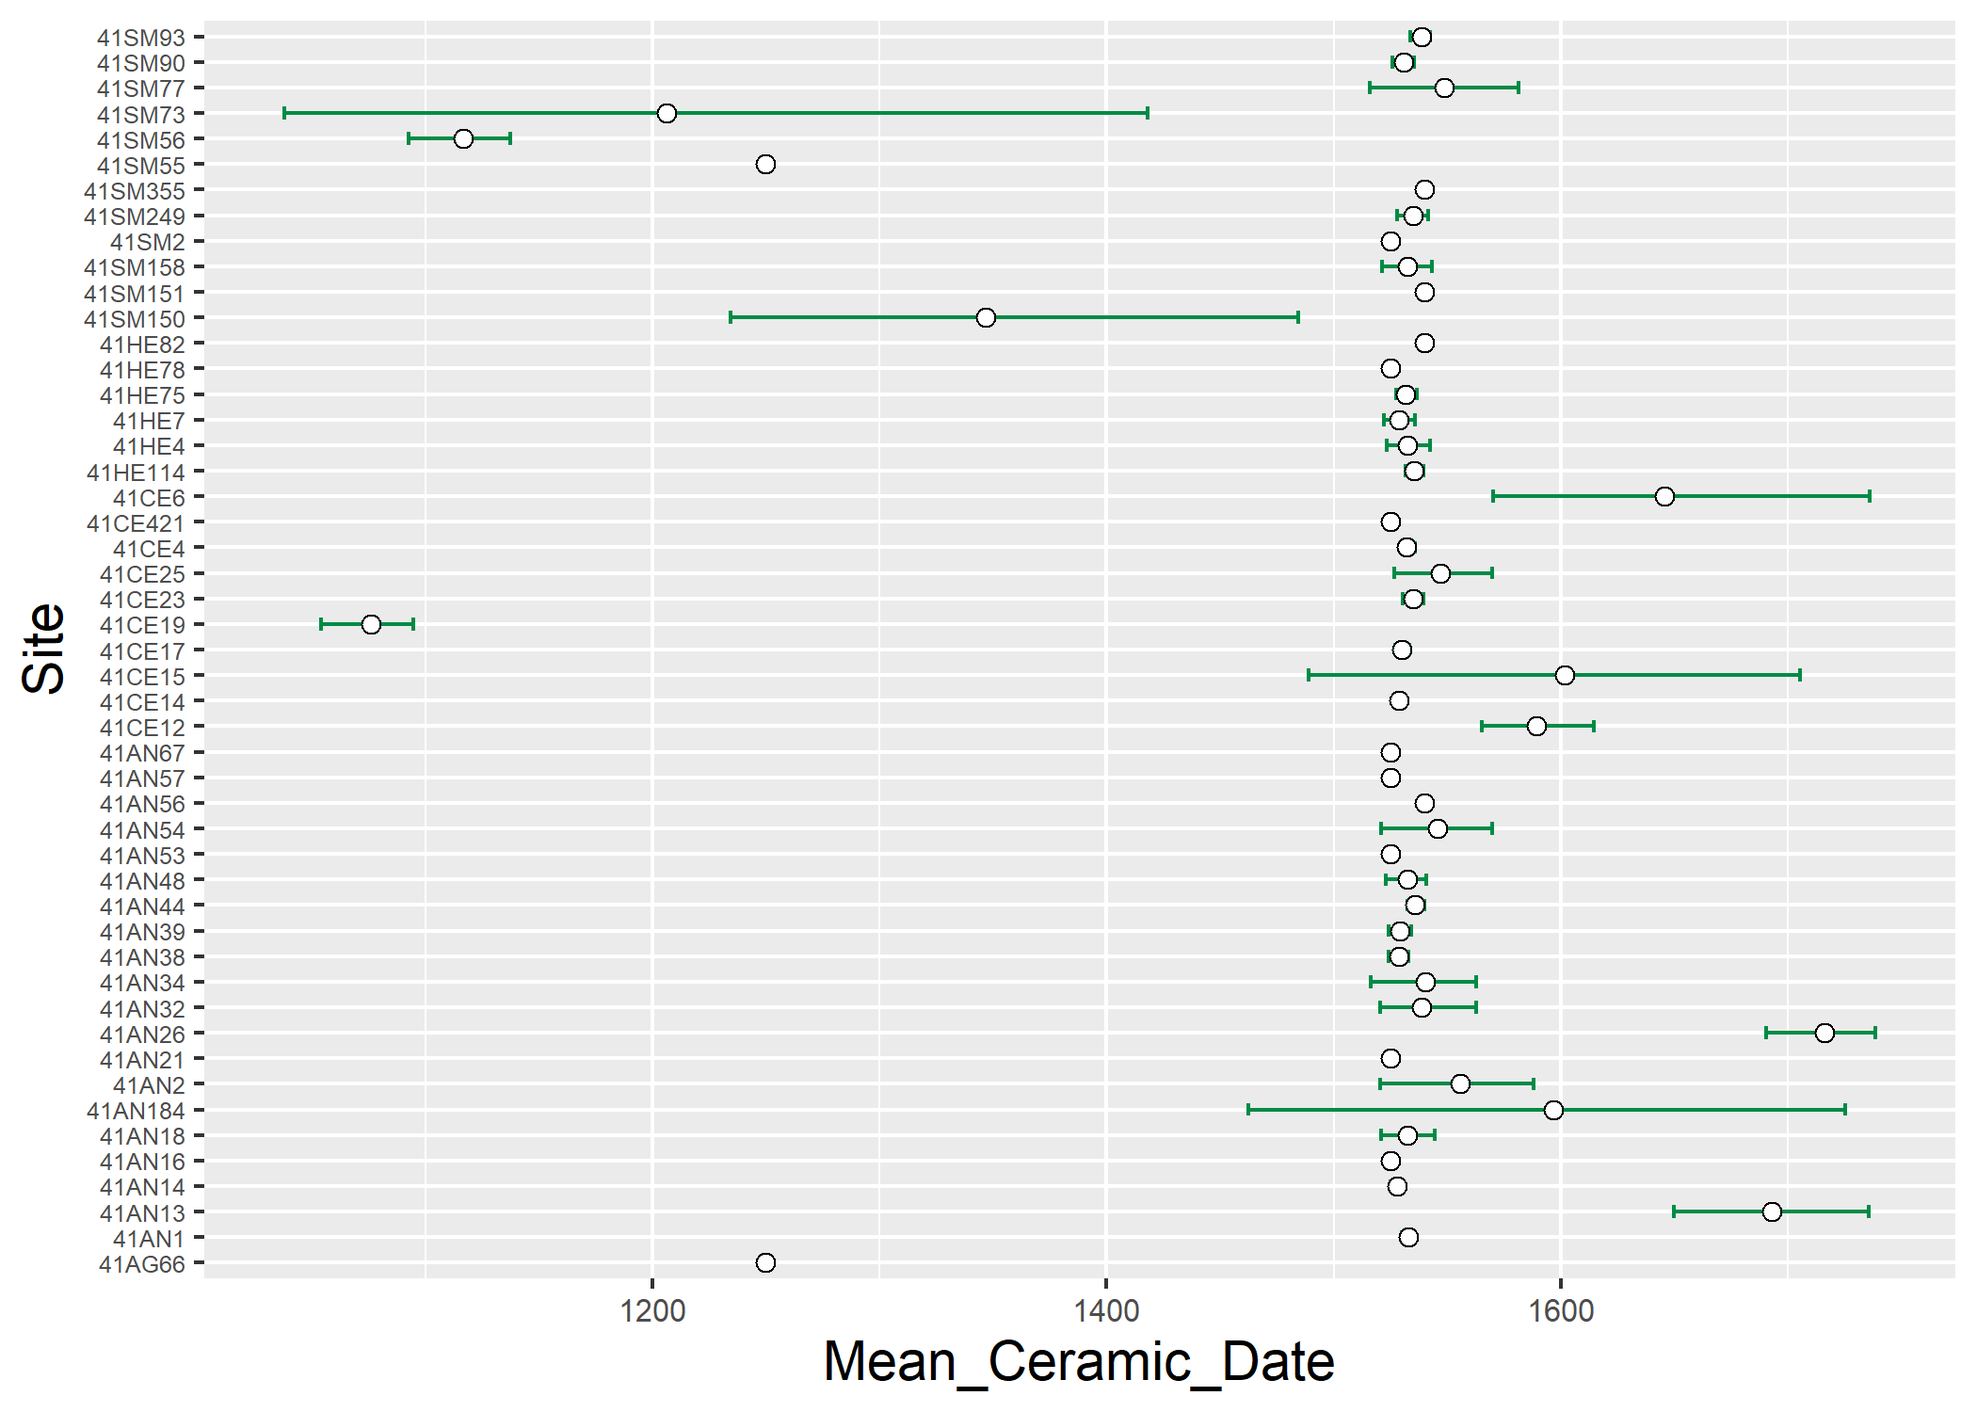
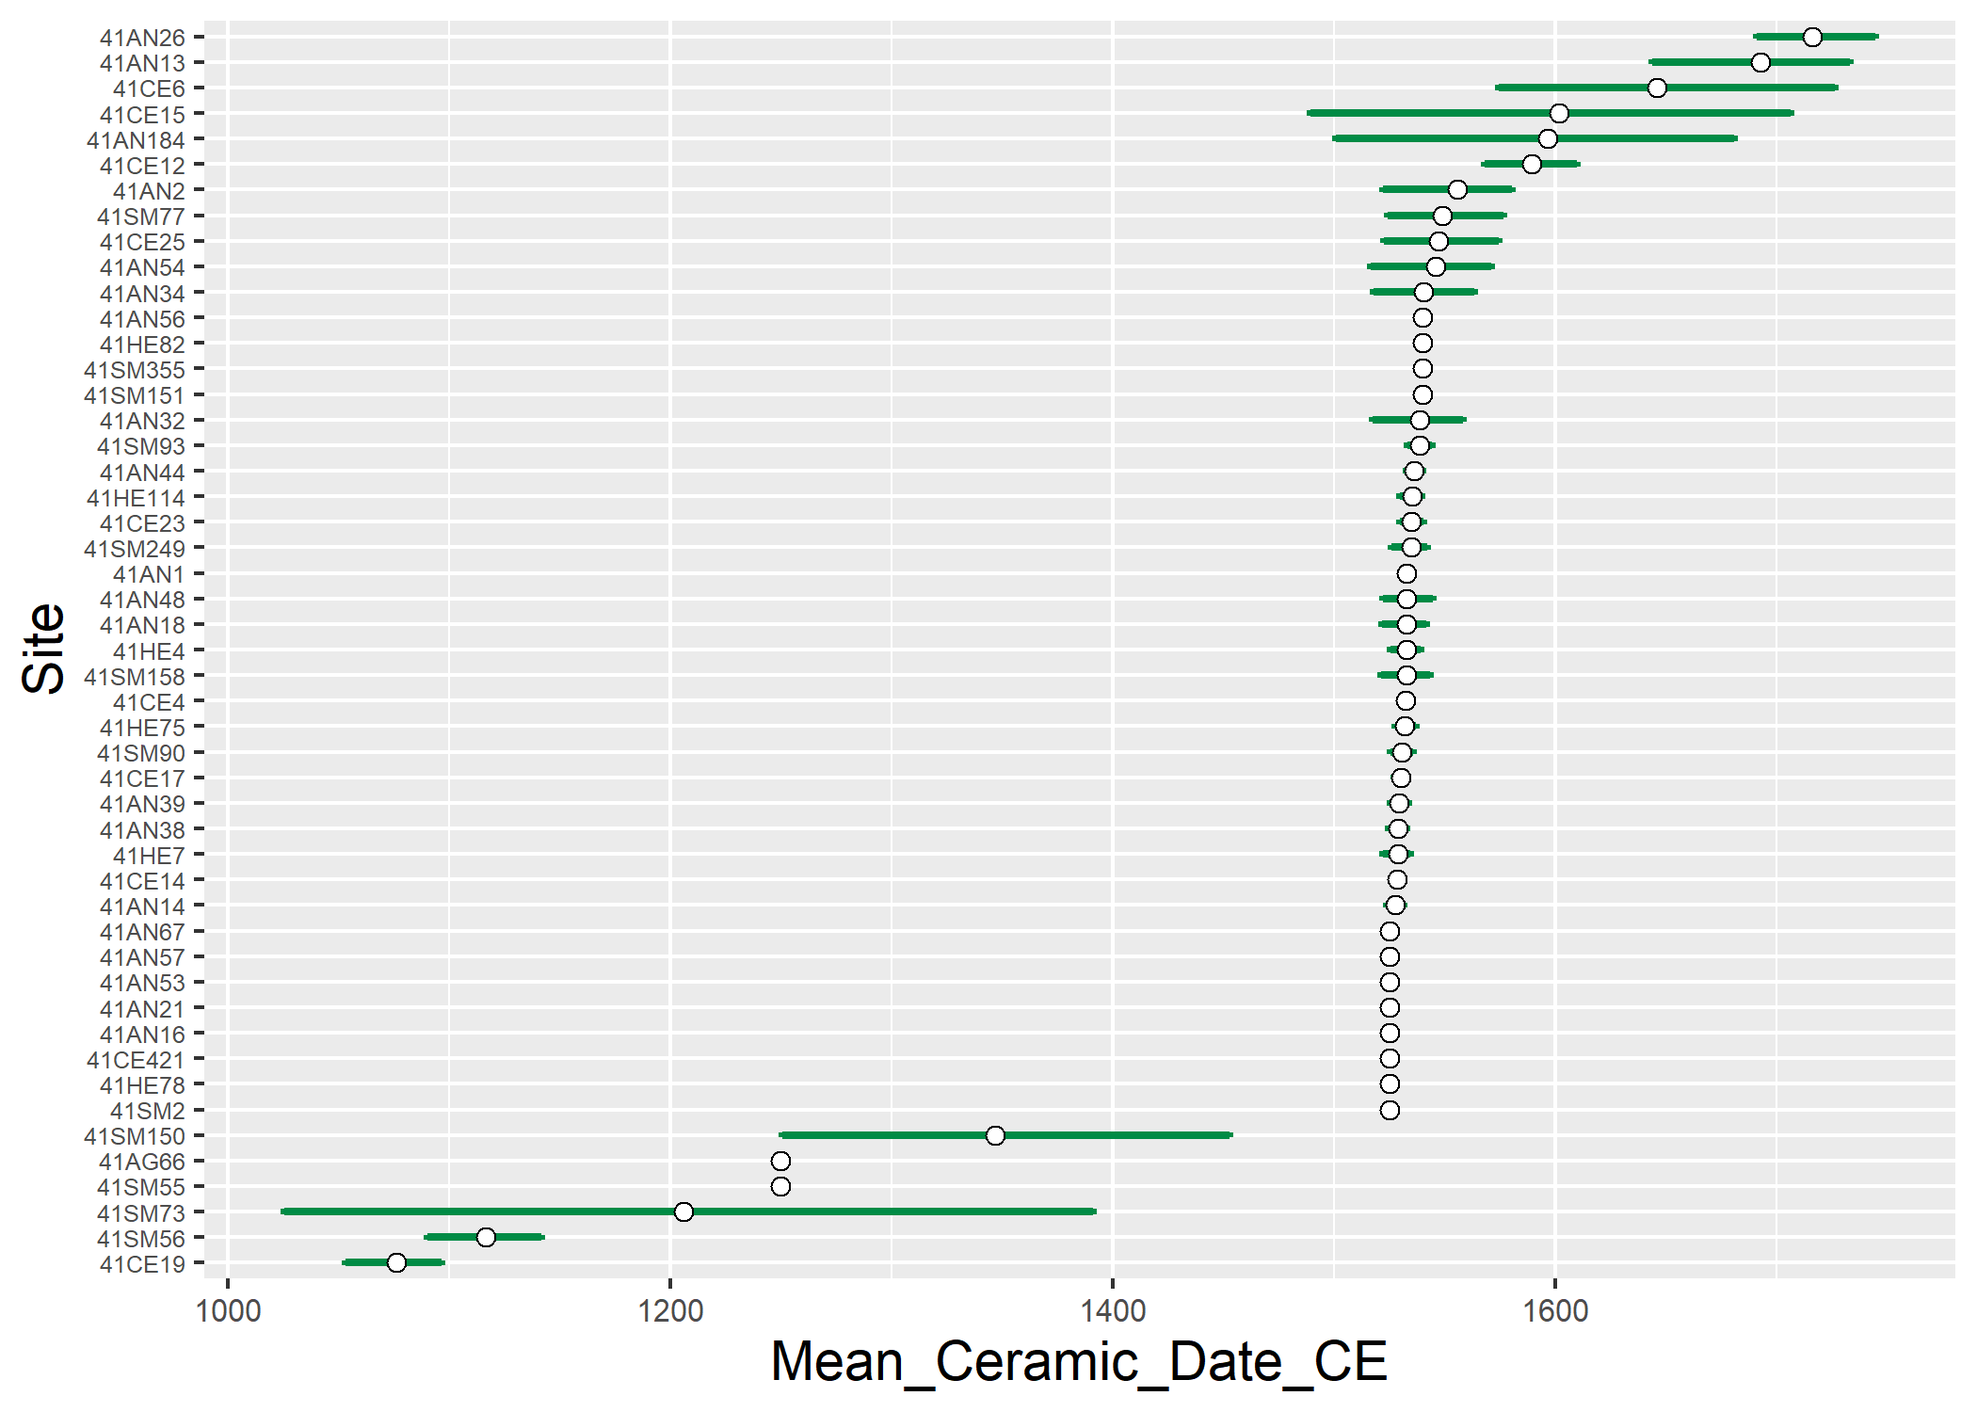
<edit mcd>

diff --git a/mcd.md b/mcd.md
@@ -12,10 +12,10 @@ Keith Kintigh, who was channelling Stanley South (1977).
 # this code chunk was repurposed from Matthew A. Peeples excellent example (link above)
 # set working directory
 setwd(getwd())
-mydata <- read.csv(file='nrb_mcd_data.csv',sep=',',header=T,row.names=1)
+mydata <- read.csv(file = 'nrb_mcd_data.csv', sep = ',', header = T, row.names = 1)
 types <- as.matrix(colnames(mydata))
 
-dates <- read.csv(file='nrb_type_dates.csv',sep=',',header=T)
+dates <- read.csv(file = 'nrb_type_dates.csv', sep = ',', header = T)
 bc <- min(dates[,2:3])
 dates[,2:3] <- dates[,2:3]+(bc*-1)
 
@@ -63,58 +63,58 @@ output
 ```
 
     ##         site      mcd                lower              higher            
-    ## 41SM56  "41SM56"  "1116.66666666667" "1092.60572071006" "1137.32625207906"
+    ## 41SM56  "41SM56"  "1116.66666666667" "1090.19628735313" "1141.77650176252"
     ## 41SM55  "41SM55"  "1250"             "1250"             "1250"            
-    ## 41SM77  "41SM77"  "1548.75"          "1515.79686290459" "1581.48885138112"
-    ## 41SM90  "41SM90"  "1530.625"         "1525.90057855822" "1535.50248266626"
-    ## 41SM73  "41SM73"  "1206.25"          "1037.92531976049" "1417.94202717829"
-    ## 41SM93  "41SM93"  "1538.5"           "1533.86899326854" "1542.5799863233" 
+    ## 41SM77  "41SM77"  "1548.75"          "1524.36134264421" "1576.58763694762"
+    ## 41SM90  "41SM90"  "1530.625"         "1525.36305064907" "1535.81041873869"
+    ## 41SM73  "41SM73"  "1206.25"          "1025.6313071512"  "1391.20542754268"
+    ## 41SM93  "41SM93"  "1538.5"           "1533.23331470208" "1544.25648121629"
     ## 41SM151 "41SM151" "1540"             "1540"             "1540"            
     ## 41SM158 "41SM158" "1532.5"           "1521.32610622983" "1543.36777132119"
-    ## 41SM249 "41SM249" "1535"             "1528.11722667654" "1541.67869169081"
-    ## 41SM150 "41SM150" "1346.66666666667" "1234.50474273792" "1484.47484909881"
+    ## 41SM249 "41SM249" "1535"             "1525.98303007558" "1541.97615359789"
+    ## 41SM150 "41SM150" "1346.66666666667" "1250.66410346559" "1452.53317544598"
     ## 41SM355 "41SM355" "1540"             "1540"             "1540"            
     ## 41SM2   "41SM2"   "1525"             "1525"             "1525"            
-    ## 41HE114 "41HE114" "1535.26315789474" "1531.68163403791" "1539.65026714362"
-    ## 41HE4   "41HE4"   "1532.5"           "1523.48383332149" "1542.28147280096"
-    ## 41HE75  "41HE75"  "1531.66666666667" "1527.41730808645" "1536.52827014485"
+    ## 41HE114 "41HE114" "1535.26315789474" "1529.86496551149" "1539.59797756048"
+    ## 41HE4   "41HE4"   "1532.5"           "1525.32861894866" "1539.21219737787"
+    ## 41HE75  "41HE75"  "1531.66666666667" "1527.45223084433" "1536.90151065227"
     ## 41HE78  "41HE78"  "1525"             "1525"             "1525"            
     ## 41HE82  "41HE82"  "1540"             "1540"             "1540"            
-    ## 41HE7   "41HE7"   "1528.75"          "1522.03445055711" "1535.77167189187"
-    ## 41CE4   "41CE4"   "1532.14285714286" "1529.19549031812" "1535.7899324224" 
-    ## 41CE12  "41CE12"  "1589.13461538462" "1565.2671671028"  "1614.69751107617"
-    ## 41CE14  "41CE14"  "1528.57142857143" "1527.33625511998" "1530.03400727069"
-    ## 41CE15  "41CE15"  "1601.66666666667" "1489.13568691769" "1705.42213621156"
-    ## 41CE17  "41CE17"  "1530.19230769231" "1527.09437044098" "1533.50217586985"
-    ## 41CE19  "41CE19"  "1076.27272727273" "1054.11393205779" "1094.87957443572"
-    ## 41CE23  "41CE23"  "1535"             "1530.21907929911" "1539.47479825191"
-    ## 41CE25  "41CE25"  "1547"             "1526.8407403024"  "1569.63272908535"
+    ## 41HE7   "41HE7"   "1528.75"          "1521.99081632653" "1534.59081632653"
+    ## 41CE4   "41CE4"   "1532.14285714286" "1529.67992310111" "1534.7224092604" 
+    ## 41CE12  "41CE12"  "1589.13461538462" "1568.17886856714" "1609.53306235908"
+    ## 41CE14  "41CE14"  "1528.57142857143" "1527.04846277959" "1529.91946724957"
+    ## 41CE15  "41CE15"  "1601.66666666667" "1489.29555550284" "1706.28267578967"
+    ## 41CE17  "41CE17"  "1530.19230769231" "1527.21689375438" "1533.19126951093"
+    ## 41CE19  "41CE19"  "1076.27272727273" "1053.4111766711"  "1096.55171757751"
+    ## 41CE23  "41CE23"  "1535"             "1529.51739756324" "1540.38056162043"
+    ## 41CE25  "41CE25"  "1547"             "1522.64780298903" "1574.20933986811"
     ## 41CE421 "41CE421" "1525"             "1525"             "1525"            
-    ## 41CE6   "41CE6"   "1645.83333333333" "1570.13545244097" "1735.85094211685"
-    ## 41AN1   "41AN1"   "1532.75862068966" "1530.02933429185" "1535.3190119432" 
-    ## 41AN13  "41AN13"  "1692.69230769231" "1649.58611593453" "1735.50022629467"
-    ## 41AN14  "41AN14"  "1527.72727272727" "1525.02280931398" "1530.09778437804"
+    ## 41CE6   "41CE6"   "1645.83333333333" "1574.35204496203" "1726.29421354137"
+    ## 41AN1   "41AN1"   "1532.75862068966" "1530.06442107415" "1534.94613487236"
+    ## 41AN13  "41AN13"  "1692.69230769231" "1643.86958638942" "1732.92790183664"
+    ## 41AN14  "41AN14"  "1527.72727272727" "1523.91839853663" "1531.25785378248"
     ## 41AN16  "41AN16"  "1525"             "1525"             "1525"            
-    ## 41AN18  "41AN18"  "1532.5"           "1520.84347825133" "1544.46264419765"
-    ## 41AN184 "41AN184" "1596.66666666667" "1462.47471495544" "1725.00827824184"
-    ## 41AN2   "41AN2"   "1555.625"         "1520.41461382768" "1587.82518209069"
+    ## 41AN18  "41AN18"  "1532.5"           "1521.67257431953" "1541.79681343558"
+    ## 41AN184 "41AN184" "1596.66666666667" "1500.88869925096" "1680.74395381027"
+    ## 41AN2   "41AN2"   "1555.625"         "1522.21038994814" "1580.53195699063"
     ## 41AN21  "41AN21"  "1525"             "1525"             "1525"            
-    ## 41AN26  "41AN26"  "1716.11111111111" "1690.43769269852" "1738.53434055923"
-    ## 41AN32  "41AN32"  "1538.75"          "1520.29695995973" "1562.78467269333"
-    ## 41AN34  "41AN34"  "1540.27777777778" "1516.4795031365"  "1562.72684606985"
-    ## 41AN38  "41AN38"  "1528.75"          "1524.15548478683" "1532.73227031522"
-    ## 41AN39  "41AN39"  "1529.28571428571" "1524.19804862819" "1534.02352571584"
-    ## 41AN44  "41AN44"  "1535.90909090909" "1532.32408894628" "1539.88370326151"
-    ## 41AN48  "41AN48"  "1532.5"           "1522.96790364588" "1540.8076065582" 
+    ## 41AN26  "41AN26"  "1716.11111111111" "1690.89562566889" "1744.57678551781"
+    ## 41AN32  "41AN32"  "1538.75"          "1517.48220294043" "1558.25249093712"
+    ## 41AN34  "41AN34"  "1540.27777777778" "1517.70084644909" "1563.33089958265"
+    ## 41AN38  "41AN38"  "1528.75"          "1524.47711680486" "1532.86982197065"
+    ## 41AN39  "41AN39"  "1529.28571428571" "1525.65387846054" "1533.44233145199"
+    ## 41AN44  "41AN44"  "1535.90909090909" "1532.62022956462" "1539.9215144057" 
+    ## 41AN48  "41AN48"  "1532.5"           "1521.94022334129" "1544.5903889036" 
     ## 41AN53  "41AN53"  "1525"             "1525"             "1525"            
-    ## 41AN54  "41AN54"  "1545.71428571429" "1520.92262750682" "1569.83538998589"
+    ## 41AN54  "41AN54"  "1545.71428571429" "1516.58071957964" "1570.78079645535"
     ## 41AN56  "41AN56"  "1540"             "1540"             "1540"            
     ## 41AN57  "41AN57"  "1525"             "1525"             "1525"            
     ## 41AN67  "41AN67"  "1525"             "1525"             "1525"            
     ## 41AG66  "41AG66"  "1250"             "1250"             "1250"
 
 ``` r
-write.table(output,file='mcd_out.csv',sep=',',row.names=F)
+write.table(output,file = 'mcd_out.csv', sep = ',', row.names = F)
 # end of Peeples' code
 ```
 
@@ -130,23 +130,50 @@ think it appropriate in this instance.
 library(tidyverse)
 ```
 
-    ## -- Attaching packages -------------------------------------- tidyverse 1.3.0 --
+    ## -- Attaching packages --------------------------------------------- tidyverse 1.3.0 --
 
     ## v ggplot2 3.3.1     v purrr   0.3.4
     ## v tibble  3.0.1     v dplyr   1.0.0
     ## v tidyr   1.1.0     v stringr 1.4.0
     ## v readr   1.3.1     v forcats 0.5.0
 
-    ## -- Conflicts ----------------------------------------- tidyverse_conflicts() --
+    ## -- Conflicts ------------------------------------------------ tidyverse_conflicts() --
     ## x dplyr::filter() masks stats::filter()
     ## x dplyr::lag()    masks stats::lag()
 
 ``` r
 # read mcd_out
 caddo<-read.csv("mcd_out.csv",header = TRUE, as.is=TRUE)
+
+# reorder sites by mcd
+caddo$site
+```
+
+    ##  [1] "41SM56"  "41SM55"  "41SM77"  "41SM90"  "41SM73"  "41SM93"  "41SM151"
+    ##  [8] "41SM158" "41SM249" "41SM150" "41SM355" "41SM2"   "41HE114" "41HE4"  
+    ## [15] "41HE75"  "41HE78"  "41HE82"  "41HE7"   "41CE4"   "41CE12"  "41CE14" 
+    ## [22] "41CE15"  "41CE17"  "41CE19"  "41CE23"  "41CE25"  "41CE421" "41CE6"  
+    ## [29] "41AN1"   "41AN13"  "41AN14"  "41AN16"  "41AN18"  "41AN184" "41AN2"  
+    ## [36] "41AN21"  "41AN26"  "41AN32"  "41AN34"  "41AN38"  "41AN39"  "41AN44" 
+    ## [43] "41AN48"  "41AN53"  "41AN54"  "41AN56"  "41AN57"  "41AN67"  "41AG66"
+
+``` r
+caddo$site <- factor(caddo$site,levels = caddo$site[order(caddo$mcd)])
+caddo$site
+```
+
+    ##  [1] 41SM56  41SM55  41SM77  41SM90  41SM73  41SM93  41SM151 41SM158 41SM249
+    ## [10] 41SM150 41SM355 41SM2   41HE114 41HE4   41HE75  41HE78  41HE82  41HE7  
+    ## [19] 41CE4   41CE12  41CE14  41CE15  41CE17  41CE19  41CE23  41CE25  41CE421
+    ## [28] 41CE6   41AN1   41AN13  41AN14  41AN16  41AN18  41AN184 41AN2   41AN21 
+    ## [37] 41AN26  41AN32  41AN34  41AN38  41AN39  41AN44  41AN48  41AN53  41AN54 
+    ## [46] 41AN56  41AN57  41AN67  41AG66 
+    ## 49 Levels: 41CE19 41SM56 41SM73 41SM55 41AG66 41SM150 41SM2 41HE78 ... 41AN26
+
+``` r
 # define variables
-Site<-caddo$site
-Mean_Ceramic_Date<-caddo$mcd
+Site <- caddo$site
+Mean_Ceramic_Date_CE <- caddo$mcd
 lower<-caddo$lower
 upper<-caddo$higher
 # plot
@@ -157,8 +184,8 @@ cs = theme(
   axis.text.y = element_text(size = 6))
 
 ggplot() +
-  geom_errorbar(data=caddo, mapping=aes(x=Site, ymin=lower, ymax=upper), width=0.5, size=0.5, colour = "springgreen4") +
-  geom_point(data=caddo, mapping=aes(x=Site, y=Mean_Ceramic_Date), size=2, shape=21, fill = "white") +
+  geom_errorbar(data = caddo, mapping = aes(x = Site, ymin = lower, ymax = upper), width = 0.2, size = 1, colour = "springgreen4") +
+  geom_point(data = caddo, mapping = aes(x = Site, y = Mean_Ceramic_Date_CE), size = 2, shape = 21, fill = "white") +
   coord_flip() + # provides a representation of time similar to what archaeologists are used to seeing
   cs
 ```
@@ -171,10 +198,10 @@ ggplot() +
 # this code chunk was repurposed from Matthew A. Peeples excellent example (link above)
 # set working directory
 setwd(getwd())
-mydata <- read.csv(file='nrb2_mcd_data.csv',sep=',',header=T,row.names=1)
+mydata <- read.csv(file = 'nrb2_mcd_data.csv', sep = ',', header = T, row.names = 1)
 types <- as.matrix(colnames(mydata))
 
-dates <- read.csv(file='nrb2_type_dates.csv',sep=',',header=T)
+dates <- read.csv(file = 'nrb2_type_dates.csv', sep = ',', header = T)
 bc <- min(dates[,2:3])
 dates[,2:3] <- dates[,2:3]+(bc*-1)
 
@@ -182,7 +209,6 @@ midpt <- as.matrix(((dates[,3]-dates[,2])/2)+dates[,2])
 dates <- cbind(dates,midpt)
 
 mydata2 <- mydata
-
 
 mcd.calc <- function(x,types,dates) {
 tot <- as.matrix(rowSums(x))
@@ -222,34 +248,33 @@ output
 ```
 
     ##         site      mcd                lower              higher            
-    ## 41SM77  "41SM77"  "1548.75"          "1521.25227191736" "1571.93522808264"
-    ## 41SM90  "41SM90"  "1530.625"         "1523.7147604585"  "1536.4414895415" 
-    ## 41SM93  "41SM93"  "1538.5"           "1533.00030435665" "1543.49969564335"
-    ## 41SM150 "41SM150" "1346.66666666667" "1242.80230844153" "1458.58658044736"
-    ## 41HE114 "41HE114" "1535.26315789474" "1532.44201971798" "1539.79482238729"
-    ## 41HE75  "41HE75"  "1531.66666666667" "1526.62555250903" "1536.98555860208"
-    ## 41CE4   "41CE4"   "1532.14285714286" "1527.97546013158" "1536.4888255827" 
-    ## 41CE12  "41CE12"  "1589.13461538462" "1564.05847746356" "1617.231586639"  
-    ## 41CE14  "41CE14"  "1528.57142857143" "1527.54540051797" "1530.20459948203"
-    ## 41CE17  "41CE17"  "1530.19230769231" "1527.85098499247" "1532.38939962292"
-    ## 41CE19  "41CE19"  "985.818181818182" "947.607389553501" "1015.63503468892"
-    ## 41CE23  "41CE23"  "1535"             "1528.36431072861" "1542.88568927139"
-    ## 41CE25  "41CE25"  "1547"             "1529.41153299421" "1561.83846700579"
-    ## 41CE6   "41CE6"   "1645.83333333333" "1565.21279461267" "1742.14831649844"
-    ## 41AN1   "41AN1"   "1532.75862068966" "1529.3229183838"  "1536.53915058172"
-    ## 41AN13  "41AN13"  "1692.69230769231" "1636.69217182105" "1744.36552048665"
-    ## 41AN14  "41AN14"  "1527.72727272727" "1524.13138725545" "1531.43679456273"
-    ## 41AN2   "41AN2"   "1555.625"         "1527.91856361741" "1583.48768638259"
-    ## 41AN26  "41AN26"  "1716.11111111111" "1689.71615051246" "1739.85175072211"
-    ## 41AN32  "41AN32"  "1538.75"          "1517.06435479235" "1557.81064520765"
-    ## 41AN34  "41AN34"  "1540.27777777778" "1516.66913997114" "1564.16419336219"
-    ## 41AN38  "41AN38"  "1528.75"          "1525.22753709396" "1532.68912957271"
-    ## 41AN44  "41AN44"  "1535.90909090909" "1532.1057382328"  "1539.48517085811"
-    ## 41AN54  "41AN54"  "1545.71428571429" "1510.31928992386" "1580.57356721899"
+    ## 41SM77  "41SM77"  "1548.75"          "1517.61881135079" "1574.63118864921"
+    ## 41SM90  "41SM90"  "1530.625"         "1526.86177254824" "1535.32572745176"
+    ## 41SM93  "41SM93"  "1538.5"           "1533.35903170753" "1544.14096829247"
+    ## 41SM150 "41SM150" "1346.66666666667" "1232.20504213956" "1396.68384674933"
+    ## 41HE114 "41HE114" "1535.26315789474" "1532.20998721627" "1539.5663285732" 
+    ## 41HE75  "41HE75"  "1531.66666666667" "1525.80743637354" "1535.99811918202"
+    ## 41CE4   "41CE4"   "1532.14285714286" "1529.96631991502" "1534.91463246593"
+    ## 41CE12  "41CE12"  "1589.13461538462" "1572.16534421421" "1609.88593783707"
+    ## 41CE14  "41CE14"  "1528.57142857143" "1527.56366750085" "1530.12680868963"
+    ## 41CE17  "41CE17"  "1530.19230769231" "1527.38474418955" "1532.32679427198"
+    ## 41CE19  "41CE19"  "985.818181818182" "957.847648534467" "1015.95727570796"
+    ## 41CE23  "41CE23"  "1535"             "1530.31523608099" "1540.72643058568"
+    ## 41CE25  "41CE25"  "1547"             "1524.97814802168" "1564.05518531166"
+    ## 41CE6   "41CE6"   "1645.83333333333" "1575.30462059046" "1708.02871274287"
+    ## 41AN1   "41AN1"   "1532.75862068966" "1530.44304747579" "1533.82419390352"
+    ## 41AN13  "41AN13"  "1692.69230769231" "1639.87170586648" "1739.48726849249"
+    ## 41AN14  "41AN14"  "1527.72727272727" "1525.11378568242" "1530.45439613576"
+    ## 41AN2   "41AN2"   "1555.625"         "1514.7550990802"  "1595.29698425313"
+    ## 41AN26  "41AN26"  "1716.11111111111" "1689.75719002146" "1744.4557729415" 
+    ## 41AN32  "41AN32"  "1538.75"          "1519.38782660777" "1557.54967339223"
+    ## 41AN34  "41AN34"  "1540.27777777778" "1519.39880479606" "1569.25860261135"
+    ## 41AN38  "41AN38"  "1528.75"          "1525.17397811287" "1533.47185522046"
+    ## 41AN44  "41AN44"  "1535.90909090909" "1533.1721982169"  "1539.3278017831" 
+    ## 41AN54  "41AN54"  "1545.71428571429" "1508.59289966239" "1582.56781462333"
 
 ``` r
 write.table(output,file='mcd_out2.csv',sep=',',row.names=F)
-# end of Peeples' code
 ```
 
 ## Plot results (mcd\_out) with error bars
@@ -262,13 +287,36 @@ think it appropriate in this instance.
 #install.packages("devtools")
 #devtools::install_github("tidyverse/ggplot2")
 library(tidyverse)
+
 # read mcd_out
-caddo2<-read.csv("mcd_out2.csv",header = TRUE, as.is=TRUE)
+caddo2 <- read.csv("mcd_out2.csv",header = TRUE, as.is=TRUE)
+
+# reorder sites by mcd
+caddo2$site
+```
+
+    ##  [1] "41SM77"  "41SM90"  "41SM93"  "41SM150" "41HE114" "41HE75"  "41CE4"  
+    ##  [8] "41CE12"  "41CE14"  "41CE17"  "41CE19"  "41CE23"  "41CE25"  "41CE6"  
+    ## [15] "41AN1"   "41AN13"  "41AN14"  "41AN2"   "41AN26"  "41AN32"  "41AN34" 
+    ## [22] "41AN38"  "41AN44"  "41AN54"
+
+``` r
+caddo2$site <- factor(caddo2$site,levels = caddo2$site[order(caddo2$mcd)])
+caddo2$site
+```
+
+    ##  [1] 41SM77  41SM90  41SM93  41SM150 41HE114 41HE75  41CE4   41CE12  41CE14 
+    ## [10] 41CE17  41CE19  41CE23  41CE25  41CE6   41AN1   41AN13  41AN14  41AN2  
+    ## [19] 41AN26  41AN32  41AN34  41AN38  41AN44  41AN54 
+    ## 24 Levels: 41CE19 41SM150 41AN14 41CE14 41AN38 41CE17 41SM90 41HE75 ... 41AN26
+
+``` r
 # define variables
-Site<-caddo2$site
-Mean_Ceramic_Date<-caddo2$mcd
-lower<-caddo2$lower
-upper<-caddo2$higher
+Site <- caddo2$site
+Mean_Ceramic_Date_CE <- caddo2$mcd
+lower <- caddo2$lower
+upper <- caddo2$higher
+
 # plot
 cs = theme(
   axis.title.x = element_text(size = 14),
@@ -277,8 +325,8 @@ cs = theme(
   axis.text.y = element_text(size = 6))
 
 ggplot() +
-  geom_errorbar(data=caddo2, mapping=aes(x=Site, ymin=lower, ymax=upper), width=0.5, size=0.5, colour = "springgreen4") +
-  geom_point(data=caddo2, mapping=aes(x=Site, y=Mean_Ceramic_Date), size=2, shape=21, fill = "white") +
+  geom_errorbar(data = caddo2, mapping = aes(x = Site, ymin = lower, ymax = upper), width = 0.2, size = 1, colour = "springgreen4") +
+  geom_point(data = caddo2, mapping = aes(x = Site, y = Mean_Ceramic_Date_CE), size = 2, shape = 21, fill = "white") +
   coord_flip() + # provides a representation of time similar to what archaeologists are used to seeing
   cs
 ```
